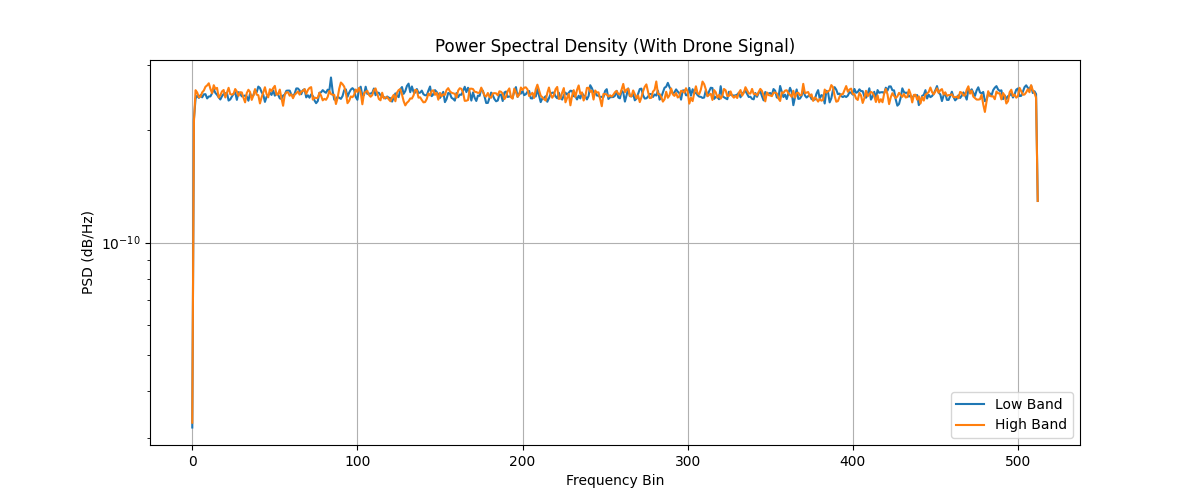
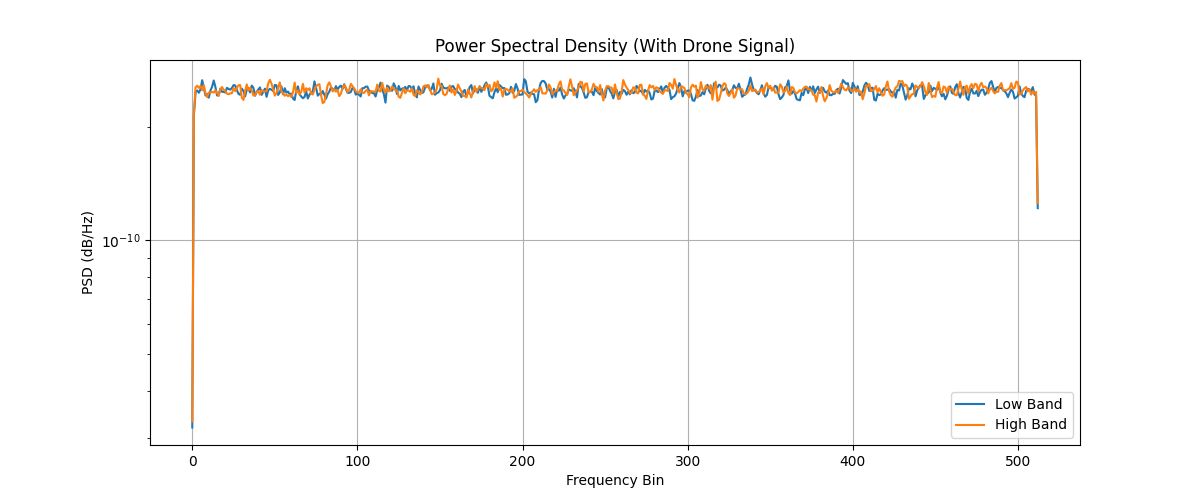
fixed script.py

Changed region(s): [[0.1542, 0.15, 0.8633, 0.21], [0.0925, 0.45, 0.8942, 0.51]]

diff --git a/script.py b/script.py
@@ -61,7 +61,7 @@ def load_model(model_path):
         print(f"Error loading model: {e}")
         return None
 
-def configure_sdr(center_freq=2.4e9, sample_rate=30.72e6, rx_buffer_size=800000, rx_gain=70):
+def configure_sdr(center_freq=2.4e9, sample_rate=30.72e6, rx_buffer_size=1600000, rx_gain=70):
     """Configure and return a PlutoSDR object."""
     try:
         print("Attempting to connect to SDR at ip:192.168.2.1...")

diff --git a/tempCodeRunnerFile.py b/tempCodeRunnerFile.py
@@ -1,1 +1,2 @@
-  print("model loaded")
+raw_high = moving_average_filter(raw_high, window_size=5)
+        raw_low = moving_average_filter(raw_low, window_size=5)
